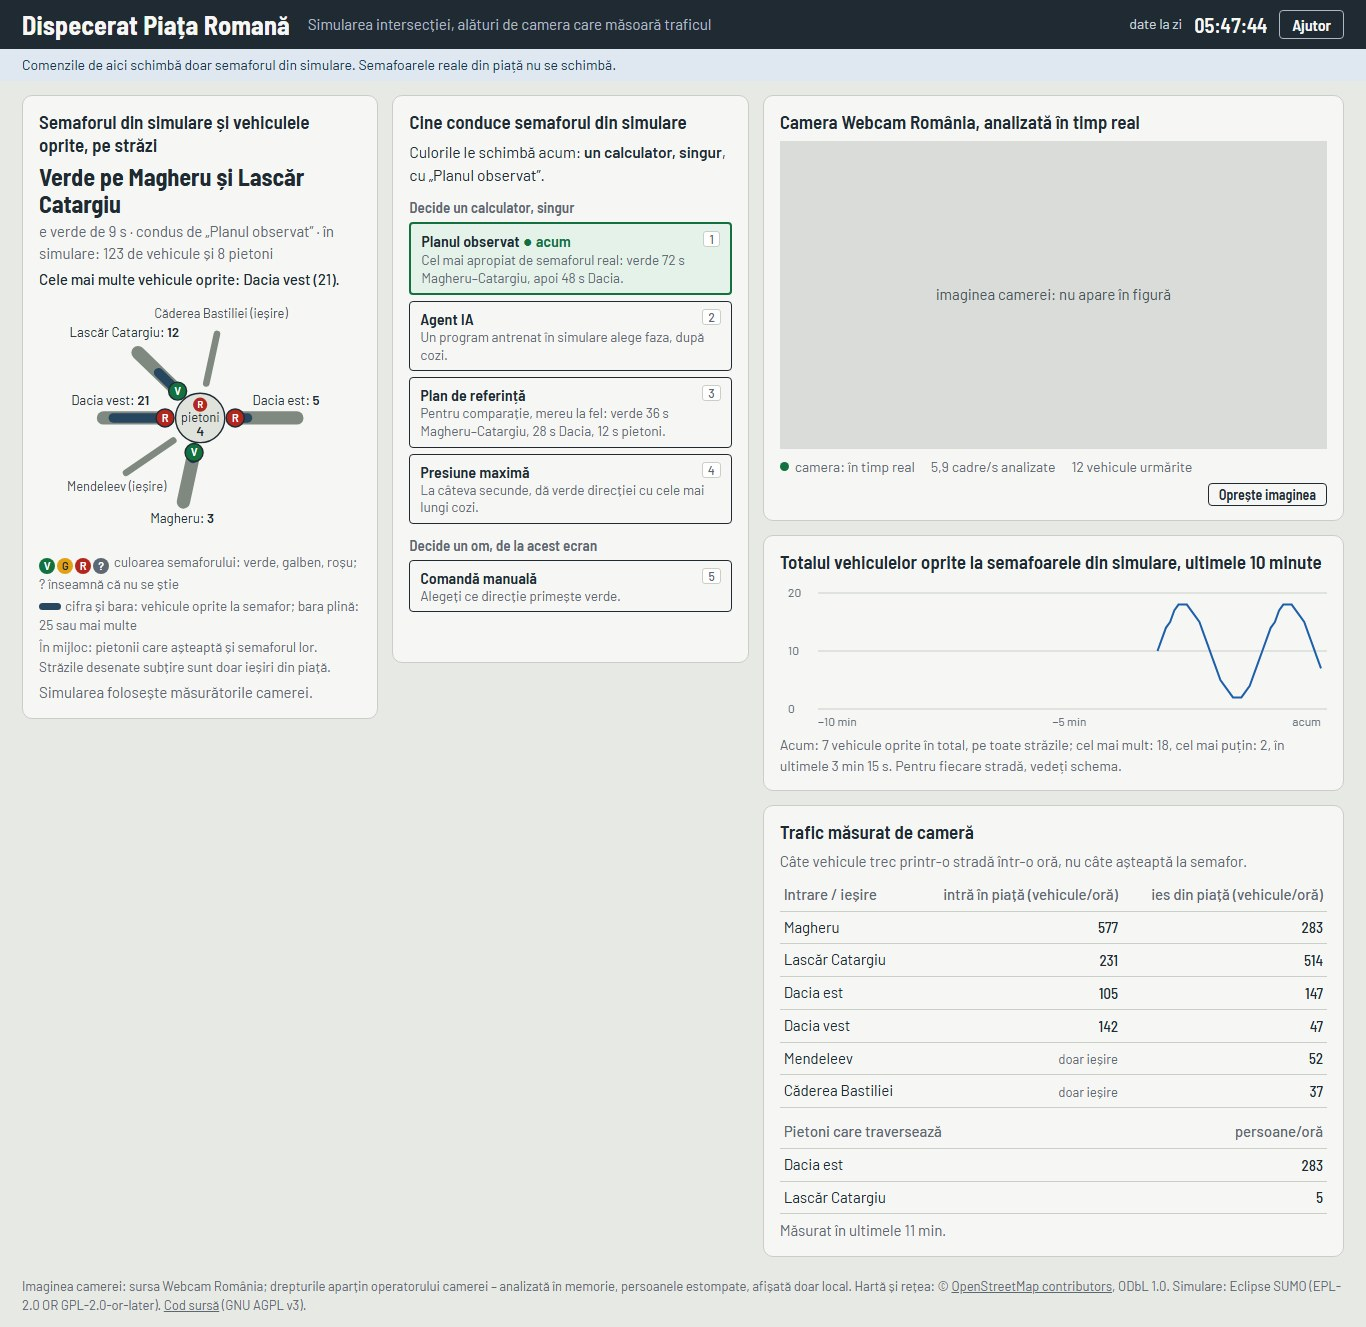
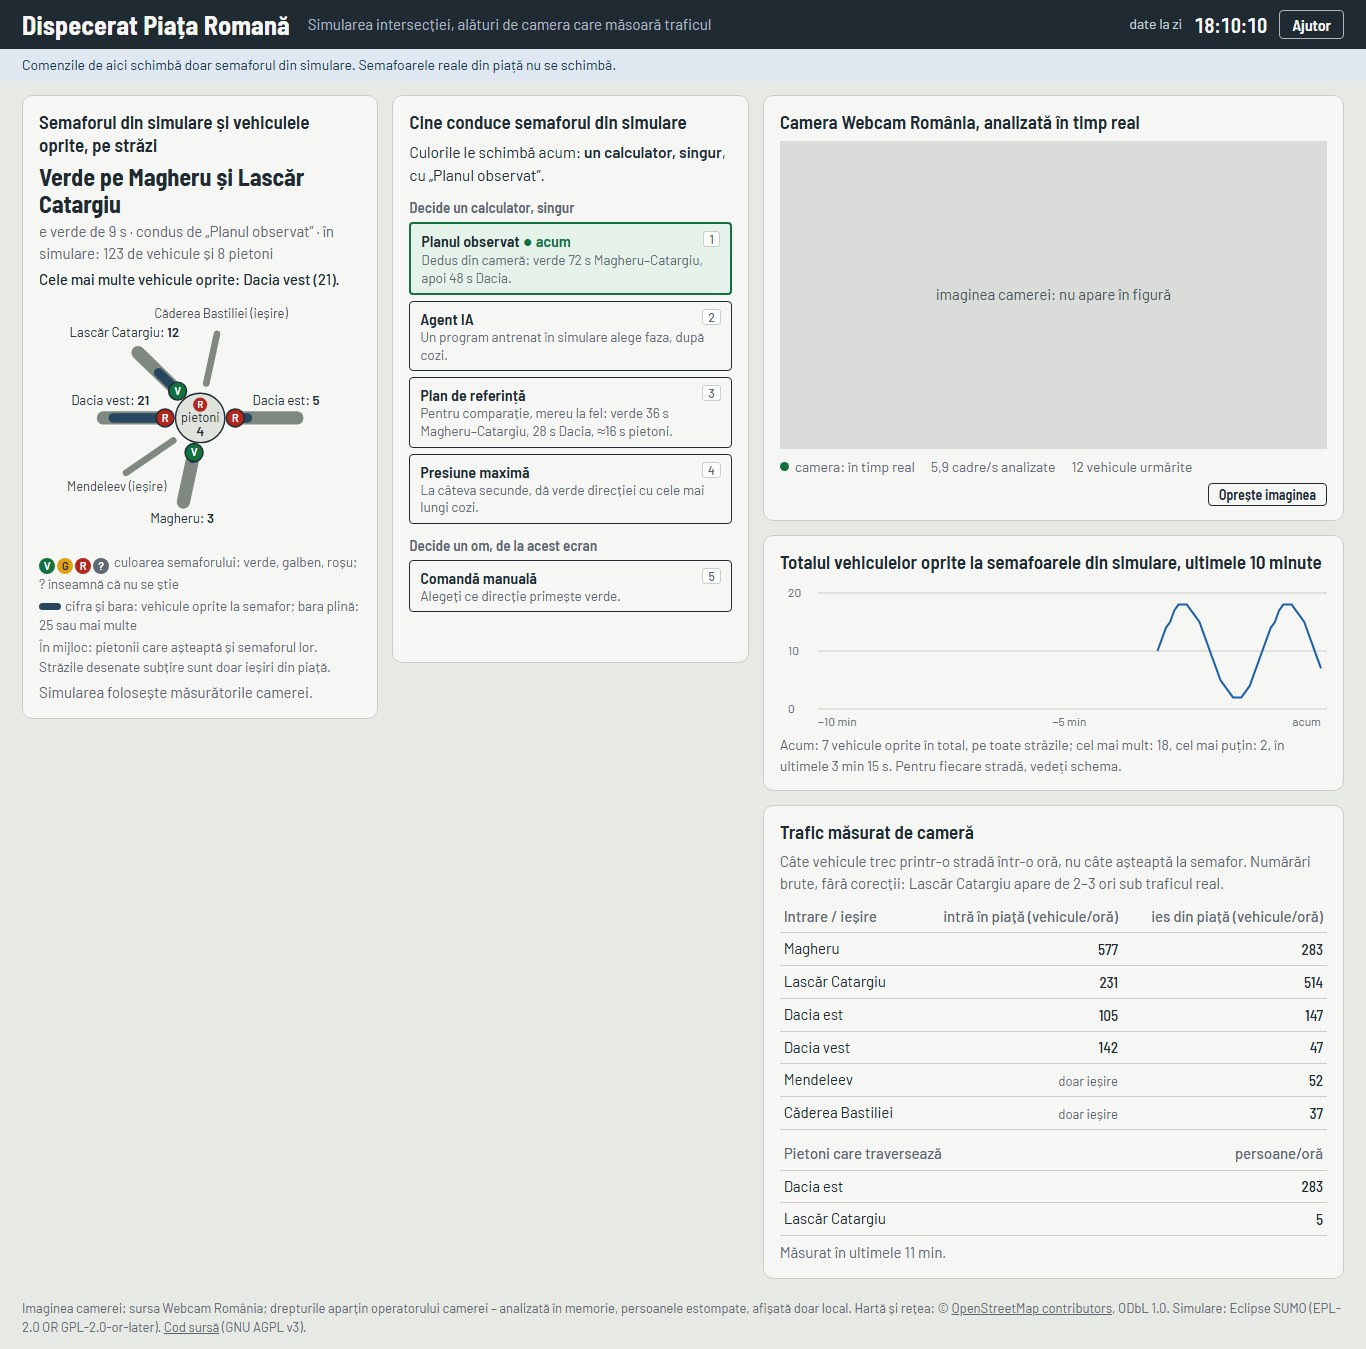
Borna M2: dispeceratul și sondarea nu mai spun „cel mai apropiat de semaforul real”
Planul observat apare ca un plan fix dedus din cameră, la vârful zilei de luni 26.10, iar panoul cu debite spune că numărările sunt brute, cu Lascăr Catargiu de 2–3 ori sub traficul real.

Sondarea: pietonii de pe Dacia pornesc la 28 s, ca în geamăn, iar subsolul spune cine și-a dat acordul pentru fotografie: Webcam România, nu operatorul camerei. Paginile din `docs/sondare` și figura 8.1 sunt refăcute.

Demonstrația de comparație pornește acum pe vârful din 26.10, fiindcă prânzul acelei zile a fost prelucrat încetinit și a ieșit din comparație. Comentarii aduse la zi: 28 s în `faze.py` și în `config/retea_v2.json`, 72/48/3 în `compara_camera`.

diff --git a/src/romana/dashboard/static/index.html b/src/romana/dashboard/static/index.html
@@ -147,7 +147,7 @@ footer a{color:inherit;text-decoration:underline}
       <p id="cine-acum"></p>
       <h3 id="t-auto">Decide un calculator, singur</h3>
       <div class="moduri" role="group" aria-labelledby="t-auto">
-        <button data-mod="program"><kbd>1</kbd><b>Planul observat</b><span id="d-program">Cel mai apropiat de semaforul real, măsurat din cameră.</span></button>
+        <button data-mod="program"><kbd>1</kbd><b>Planul observat</b><span id="d-program">Plan fix dedus din cameră, la vârful zilei de luni 26.10.</span></button>
         <button data-mod="ai"><kbd>2</kbd><b>Agent IA</b><span id="d-ai">Un program antrenat în simulare alege faza, după cozi.</span></button>
         <button data-mod="fix"><kbd>3</kbd><b>Plan de referință</b><span>Pentru comparație, mereu la fel: verde 36 s Magheru–Catargiu, 28 s Dacia, ≈16 s pietoni.</span></button>
         <button data-mod="max_pressure"><kbd>4</kbd><b>Presiune maximă</b><span>La câteva secunde, dă verde direcției cu cele mai lungi cozi.</span></button>
@@ -192,7 +192,7 @@ footer a{color:inherit;text-decoration:underline}
     </section>
     <section aria-labelledby="t-deb" id="p-deb">
       <h2 id="t-deb">Trafic măsurat de cameră</h2>
-      <p class="sub" style="margin:0 0 6px">Câte vehicule trec printr-o stradă într-o oră, nu câte așteaptă la semafor.</p>
+      <p class="sub" style="margin:0 0 6px">Câte vehicule trec printr-o stradă într-o oră, nu câte așteaptă la semafor. Numărări brute, fără corecții: Lascăr Catargiu apare de 2–3 ori sub traficul real.</p>
       <table><thead><tr><th>Intrare / ieșire</th><th class="n">intră în piață (vehicule/oră)</th><th class="n">ies din piață (vehicule/oră)</th></tr></thead><tbody id="debite"><tr><td colspan="3" class="sub">Așteptăm primele măsurători.</td></tr></tbody></table>
       <table id="t-pietoni" hidden style="margin-top:8px"><thead><tr><th>Pietoni care traversează</th><th class="n">persoane/oră</th></tr></thead><tbody id="pietoni"></tbody></table>
       <p class="sub" id="deb-nota" style="margin:6px 0 0"></p>
@@ -202,8 +202,8 @@ footer a{color:inherit;text-decoration:underline}
 <footer>Imaginea camerei: sursa Webcam România; drepturile aparțin operatorului camerei – analizată în memorie, persoanele estompate, afișată doar local. Hartă și rețea: © <a href="https://www.openstreetmap.org/copyright">OpenStreetMap contributors</a>, ODbL 1.0. Simulare: Eclipse SUMO (EPL-2.0 OR GPL-2.0-or-later). <a href="https://github.com/NiuninMatei/Semaforizare_Piata_Romana">Cod sursă</a> (GNU AGPL v3).</footer>
 <script>
 const NUME={magheru:"Magheru",catargiu:"Lascăr Catargiu",dacia_est:"Dacia est",dacia_vest:"Dacia vest",mendeleev:"Mendeleev",caderea_bastiliei:"Căderea Bastiliei"};
-const MODURI={program:{nume:"Planul observat",cine:"un calculator, singur",text:"planul cel mai apropiat de semaforul real, măsurat din cameră"},ai:{nume:"Agent IA",cine:"un calculator, singur",text:"un program antrenat în simulare, care alege faza după cozi"},
-  fix:{nume:"Plan de referință",cine:"un calculator, singur",text:"pentru comparație, mereu la fel: verde 36 s Magheru–Catargiu, 28 s Dacia, 12 s pietoni"},max_pressure:{nume:"Presiune maximă",cine:"un calculator, singur",text:"verde pentru direcția cu cele mai lungi cozi"},
+const MODURI={program:{nume:"Planul observat",cine:"un calculator, singur",text:"un plan fix dedus din cameră, la vârful zilei de luni 26.10"},ai:{nume:"Agent IA",cine:"un calculator, singur",text:"un program antrenat în simulare, care alege faza după cozi"},
+  fix:{nume:"Plan de referință",cine:"un calculator, singur",text:"pentru comparație, mereu la fel: verde 36 s Magheru–Catargiu, 28 s Dacia, ≈16 s pietoni"},max_pressure:{nume:"Presiune maximă",cine:"un calculator, singur",text:"verde pentru direcția cu cele mai lungi cozi"},
   manual:{nume:"Comandă manuală",cine:"un om, de la acest ecran",text:"alegeți dumneavoastră direcția care primește verde"}};
 const ORDINE=["program","ai","fix","max_pressure","manual"];
 const SUBPROGRAM={plan_observat:"verde 72 s Magheru–Catargiu, apoi 48 s Dacia",plan_scurt:"verde 12 s Magheru–Catargiu, 14 s Dacia, 12 s pietoni",plan_mediu:"verde 16 s Magheru–Catargiu, 10 s Dacia, 12 s pietoni",plan_lung:"verde 46 s Magheru–Catargiu, 48 s Dacia, 12 s pietoni",
@@ -299,7 +299,7 @@ function butoane(s){
   document.querySelectorAll("[data-mod]").forEach(b=>{ b.setAttribute("aria-pressed",b.dataset.mod==mod); b.disabled=!!blocat||trimitem||(b.dataset.mod=="ai"&&!!s&&!s.model_ai) });
   $("revino").disabled=!!blocat||trimitem;
   $("d-ai").textContent=s&&!s.model_ai?"Indisponibil: pe acest calculator nu există un agent antrenat.":"Un program antrenat în simulare alege faza, după cozi."; $("d-ai").classList.toggle("motiv",!!s&&!s.model_ai);
-  $("d-program").textContent=s&&s.mod_program&&SUBPROGRAM[s.mod_program]?`Cel mai apropiat de semaforul real: ${SUBPROGRAM[s.mod_program]}.`:"Cel mai apropiat de semaforul real, măsurat din cameră.";
+  $("d-program").textContent=s&&s.mod_program&&SUBPROGRAM[s.mod_program]?`Dedus din cameră: ${SUBPROGRAM[s.mod_program]}.`:"Plan fix dedus din cameră, la vârful zilei de luni 26.10.";
   $("blocat").hidden=!blocat; $("blocat").textContent=blocat;
   $("manual").classList.toggle("vizibil",mod=="manual");
   faze(s);

diff --git a/docs/sondare/m2.html b/docs/sondare/m2.html
@@ -149,7 +149,7 @@ footer a{color:inherit;text-decoration:underline}
       <p id="cine-acum"></p>
       <h3 id="t-auto">Decide un calculator, singur</h3>
       <div class="moduri" role="group" aria-labelledby="t-auto">
-        <button data-mod="program"><kbd>1</kbd><b>Planul observat</b><span id="d-program">Cel mai apropiat de semaforul real, măsurat din cameră.</span></button>
+        <button data-mod="program"><kbd>1</kbd><b>Planul observat</b><span id="d-program">Plan fix dedus din cameră, la vârful zilei de luni 26.10.</span></button>
         <button data-mod="ai"><kbd>2</kbd><b>Agent IA</b><span id="d-ai">Un program antrenat în simulare alege faza, după cozi.</span></button>
         <button data-mod="fix"><kbd>3</kbd><b>Plan de referință</b><span>Pentru comparație, mereu la fel: verde 36 s Magheru–Catargiu, 28 s Dacia, ≈16 s pietoni.</span></button>
         <button data-mod="max_pressure"><kbd>4</kbd><b>Presiune maximă</b><span>La câteva secunde, dă verde direcției cu cele mai lungi cozi.</span></button>
@@ -195,14 +195,14 @@ footer a{color:inherit;text-decoration:underline}
     </section>
     <section aria-labelledby="t-deb" id="p-deb">
       <h2 id="t-deb">Debite de trafic</h2>
-      <p class="sub" style="margin:0 0 6px">Câte vehicule trec printr-o stradă într-o oră, nu câte așteaptă la semafor.</p>
+      <p class="sub" style="margin:0 0 6px">Câte vehicule trec printr-o stradă într-o oră, nu câte așteaptă la semafor. Numărări brute, fără corecții: Lascăr Catargiu apare de 2–3 ori sub traficul real.</p>
       <table><thead><tr><th>Intrare / ieșire</th><th class="n">intră în piață (vehicule/oră)</th><th class="n">ies din piață (vehicule/oră)</th></tr></thead><tbody id="debite"><tr><td colspan="3" class="sub">Așteptăm primele măsurători.</td></tr></tbody></table>
       <table id="t-pietoni" hidden style="margin-top:8px"><thead><tr><th>Pietoni care traversează</th><th class="n">persoane/oră</th></tr></thead><tbody id="pietoni"></tbody></table>
       <p class="sub" id="deb-nota" style="margin:6px 0 0"></p>
     </section>
   </div>
 </main>
-<footer>Imaginea camerei: Webcam România – https://webcamromania.ro; drepturile aparțin operatorului camerei. Fotografie publicată cu acordul lui, cu persoanele și plăcuțele estompate. Hartă și rețea: © <a href="https://www.openstreetmap.org/copyright">OpenStreetMap contributors</a>, ODbL 1.0. Simulare: Eclipse SUMO (EPL-2.0 OR GPL-2.0-or-later). <a href="https://github.com/NiuninMatei/Semaforizare_Piata_Romana">Cod sursă</a> (GNU AGPL v3).</footer>
+<footer>Imaginea camerei: Webcam România – https://webcamromania.ro; drepturile aparțin operatorului camerei. Fotografie publicată cu acordul scris al Webcam România, cu persoanele și plăcuțele estompate. Hartă și rețea: © <a href="https://www.openstreetmap.org/copyright">OpenStreetMap contributors</a>, ODbL 1.0. Simulare: Eclipse SUMO (EPL-2.0 OR GPL-2.0-or-later). <a href="https://github.com/NiuninMatei/Semaforizare_Piata_Romana">Cod sursă</a> (GNU AGPL v3).</footer>
 <script src="punte.js"></script>
 <script src="m2.js"></script>
 </body>

diff --git a/docs/sondare/m2.js b/docs/sondare/m2.js
@@ -1,6 +1,6 @@
 const NUME={magheru:"Magheru",catargiu:"Lascăr Catargiu",dacia_est:"Dacia est",dacia_vest:"Dacia vest",mendeleev:"Mendeleev",caderea_bastiliei:"Căderea Bastiliei"};
-const MODURI={program:{nume:"Planul observat",cine:"un calculator, singur",text:"planul cel mai apropiat de semaforul real, măsurat din cameră"},ai:{nume:"Agent IA",cine:"un calculator, singur",text:"un program antrenat în simulare, care alege faza după cozi"},
-  fix:{nume:"Plan de referință",cine:"un calculator, singur",text:"pentru comparație, mereu la fel: verde 36 s Magheru–Catargiu, 28 s Dacia, 12 s pietoni"},max_pressure:{nume:"Presiune maximă",cine:"un calculator, singur",text:"verde pentru direcția cu cele mai lungi cozi"},
+const MODURI={program:{nume:"Planul observat",cine:"un calculator, singur",text:"un plan fix dedus din cameră, la vârful zilei de luni 26.10"},ai:{nume:"Agent IA",cine:"un calculator, singur",text:"un program antrenat în simulare, care alege faza după cozi"},
+  fix:{nume:"Plan de referință",cine:"un calculator, singur",text:"pentru comparație, mereu la fel: verde 36 s Magheru–Catargiu, 28 s Dacia, ≈16 s pietoni"},max_pressure:{nume:"Presiune maximă",cine:"un calculator, singur",text:"verde pentru direcția cu cele mai lungi cozi"},
   manual:{nume:"Comandă manuală",cine:"un om, de la acest ecran",text:"alegeți dumneavoastră direcția care primește verde"}};
 const ORDINE=["program","ai","fix","max_pressure","manual"];
 const SUBPROGRAM={plan_observat:"verde 72 s Magheru–Catargiu, apoi 48 s Dacia",plan_scurt:"verde 12 s Magheru–Catargiu, 14 s Dacia, 12 s pietoni",plan_mediu:"verde 16 s Magheru–Catargiu, 10 s Dacia, 12 s pietoni",plan_lung:"verde 46 s Magheru–Catargiu, 48 s Dacia, 12 s pietoni",
@@ -96,7 +96,7 @@ function butoane(s){
   document.querySelectorAll("[data-mod]").forEach(b=>{ b.setAttribute("aria-pressed",b.dataset.mod==mod); b.disabled=!!blocat||trimitem||(b.dataset.mod=="ai"&&!!s&&!s.model_ai) });
   $("revino").disabled=!!blocat||trimitem;
   $("d-ai").textContent=s&&!s.model_ai?"Indisponibil: pe acest calculator nu există un agent antrenat.":"Un program antrenat în simulare alege faza, după cozi."; $("d-ai").classList.toggle("motiv",!!s&&!s.model_ai);
-  $("d-program").textContent=s&&s.mod_program&&SUBPROGRAM[s.mod_program]?`Cel mai apropiat de semaforul real: ${SUBPROGRAM[s.mod_program]}.`:"Cel mai apropiat de semaforul real, măsurat din cameră.";
+  $("d-program").textContent=s&&s.mod_program&&SUBPROGRAM[s.mod_program]?`Dedus din cameră: ${SUBPROGRAM[s.mod_program]}.`:"Plan fix dedus din cameră, la vârful zilei de luni 26.10.";
   $("blocat").hidden=!blocat; $("blocat").textContent=blocat;
   $("manual").classList.toggle("vizibil",mod=="manual");
   faze(s);

diff --git a/docs/sondare/m1.html b/docs/sondare/m1.html
@@ -113,7 +113,7 @@ footer a{color:inherit;text-decoration:underline}
     </section>
   </div>
 </main>
-<footer>Imaginea camerei: Webcam România – https://webcamromania.ro; drepturile aparțin operatorului camerei. Fotografie publicată cu acordul lui, cu persoanele și plăcuțele estompate. Hartă și rețea: © <a href="https://www.openstreetmap.org/copyright">OpenStreetMap contributors</a>, ODbL 1.0. Simulare: Eclipse SUMO (EPL-2.0 OR GPL-2.0-or-later). <a href="https://github.com/NiuninMatei/Semaforizare_Piata_Romana">Cod sursă</a> (GNU AGPL v3).</footer>
+<footer>Imaginea camerei: Webcam România – https://webcamromania.ro; drepturile aparțin operatorului camerei. Fotografie publicată cu acordul scris al Webcam România, cu persoanele și plăcuțele estompate. Hartă și rețea: © <a href="https://www.openstreetmap.org/copyright">OpenStreetMap contributors</a>, ODbL 1.0. Simulare: Eclipse SUMO (EPL-2.0 OR GPL-2.0-or-later). <a href="https://github.com/NiuninMatei/Semaforizare_Piata_Romana">Cod sursă</a> (GNU AGPL v3).</footer>
 <script src="punte.js"></script>
 <script src="m1.js"></script>
 </body>

diff --git a/docs/sondare/logica.js b/docs/sondare/logica.js
@@ -9,7 +9,7 @@ const rotunjit = x => Math.round(x * 100) / 100;
 // Aceleași câmpuri ca outputs/live/state.json și sim_state.json. Reacția la o comandă e ca în geamăn: faza veche rămâne
 // până la pasul de citire a comenzii (5 s), pietonii au 6 s să termine traversarea, apoi galben 3 s și roșu 2 s, iar faza nouă
 // vine abia după ele. Fiindcă planul stă pe faza N–S cu verdele minim deja atins la sarcina de verde, aici reacția durează
-// 11–16 s; în geamănul adevărat poate ajunge la ≈30 s (§ 8).
+// 11–16 s; în geamănul adevărat poate ajunge la ≈45 s (§ 8).
 class Banc {
   constructor(D, ceas = secunde, salvat = null) {
     this.D = D;

diff --git a/src/romana/dashboard/static/sondare_logica.js b/src/romana/dashboard/static/sondare_logica.js
@@ -9,7 +9,7 @@ const rotunjit = x => Math.round(x * 100) / 100;
 // Aceleași câmpuri ca outputs/live/state.json și sim_state.json. Reacția la o comandă e ca în geamăn: faza veche rămâne
 // până la pasul de citire a comenzii (5 s), pietonii au 6 s să termine traversarea, apoi galben 3 s și roșu 2 s, iar faza nouă
 // vine abia după ele. Fiindcă planul stă pe faza N–S cu verdele minim deja atins la sarcina de verde, aici reacția durează
-// 11–16 s; în geamănul adevărat poate ajunge la ≈30 s (§ 8).
+// 11–16 s; în geamănul adevărat poate ajunge la ≈45 s (§ 8).
 class Banc {
   constructor(D, ceas = secunde, salvat = null) {
     this.D = D;

diff --git a/docs/sondare/date.js b/docs/sondare/date.js
@@ -26,7 +26,7 @@ const DATE_SONDARE = {
 "GALBEN": 3,
 "ROSU": 2,
 "VERDE_MIN": 10,
-"INTARZIERE_PIETONI": 24,
+"INTARZIERE_PIETONI": 28,
 "DEGAJARE_PIETONI": 6,
 "PAS_COMANDA": 5,
 "VERDE_PE_DACIA": [

diff --git a/src/romana/dashboard/sondare.py b/src/romana/dashboard/sondare.py
@@ -56,7 +56,7 @@ FAZE = ["N–S: Magheru ↔ Lascăr Catargiu prin centru", "E–V: Dacia în jur
         "E–V, cu intrările Magheru/Catargiu deschise (fără dozare)", "Golirea centrului, fără pietoni"]
 PLAN = [(0, 72), (1, 48), (5, 3)]               # planul observat din geamăn (§ 6.5): verde 72/48/3 s, apoi galben 3 s și roșu 2 s
 GALBEN, ROSU, VERDE_MIN, PAS_COMANDA = 3, 2, 10, 5    # ca în SignalController și în bucla geamănului (comanda se citește la 5 s)
-INTARZIERE_PIETONI, DEGAJARE_PIETONI = 24, 6     # ca în SemaforCuPietoni: pietonii pornesc după vehicule și termină traversarea înaintea galbenului
+INTARZIERE_PIETONI, DEGAJARE_PIETONI = 28, 6     # ca în SemaforCuPietoni: pietonii pornesc după vehicule și termină traversarea înaintea galbenului
 VERDE_PE_DACIA = (1, 3, 4)                      # schema arată verde pe Dacia în aceste faze
 VERDE_PE_MAGHERU = (0, 3, 4)
 AUTOMATE = ("ai", "fix", "max_pressure", "program")
@@ -212,7 +212,7 @@ STIL_CAMERA = "<style>.cam .stare,#sursa{display:none}</style>"
 SUBSOL_CAMERA = ("Imaginea camerei: sursa Webcam România; drepturile aparțin operatorului camerei – analizată în memorie, "
                  "persoanele estompate, afișată doar local.")
 SUBSOL_PUBLIC = ("Imaginea camerei: Webcam România – https://webcamromania.ro; drepturile aparțin operatorului camerei. "
-                 "Fotografie publicată cu acordul lui, cu persoanele și plăcuțele estompate.")
+                 "Fotografie publicată cu acordul scris al Webcam România, cu persoanele și plăcuțele estompate.")
 
 
 def _inlocuieste(text: str, vechi: str, nou: str) -> str:

diff --git a/src/romana/control/faze.py b/src/romana/control/faze.py
@@ -1,6 +1,6 @@
 """Fazele semaforului pieței pentru rețeaua încărcată în simulare: geamănul corectat are fișierul lui și programul pietonilor (§ 6.5).
 
-Programul pietonilor vine din cameră. Pe Dacia est, pietonii pornesc la ≈20 s după vehiculele de pe axa Magheru–Catargiu; pe Magheru, abia după sfârșitul
+Programul pietonilor vine din cameră. Pe Dacia est, pietonii pornesc la ≈28 s de la începutul valului de pe axa Magheru–Catargiu, iar la valurile foarte lungi mai târziu; pe Magheru, abia după sfârșitul
 etapei N–S. În ambele etape, pietonii primesc roșu cu câteva secunde înaintea vehiculelor, ca să termine traversarea până vine etapa următoare.
 """
 from __future__ import annotations

diff --git a/src/romana/control/compara_camera.py b/src/romana/control/compara_camera.py
@@ -5,7 +5,7 @@ numără, secundă cu secundă, vehiculele care părăsesc muchia dinaintea sema
 aceeași oră, iar cele două cicluri se aliniază pe cea mai bună suprapunere.
 
 Exemplu:
-  python -m romana.control.compara_camera --zi 2026-10-26 --interval 15:00-16:00 --scenariu cor_zi_2026-10-26_varf --plan PLAN_71_40_12 \
+  python -m romana.control.compara_camera --zi 2026-10-26 --interval 15:00-16:00 --scenariu cor_zi_2026-10-26_varf --plan PLAN_72_48_3 \
       --out docs/rezultate/geaman_camera_2026-10-26.csv --figura docs/imagini/geaman_camera.png
 """
 from __future__ import annotations

diff --git a/src/romana/control/demo.py b/src/romana/control/demo.py
@@ -57,7 +57,7 @@ def _run(args):
 
 def main(argv=None) -> None:
     ap = argparse.ArgumentParser(description=__doc__, formatter_class=argparse.RawDescriptionHelpFormatter)
-    ap.add_argument("--scenariu", default=str(ROOT / "sumo" / "scenarios" / "cor_zi_2026-10-26_pranz.sumocfg"))
+    ap.add_argument("--scenariu", default=str(ROOT / "sumo" / "scenarios" / "cor_zi_2026-10-26_varf.sumocfg"))
     ap.add_argument("--seeds", type=int, default=5)
     ap.add_argument("--model", default=str(MODELS_DIR / "ppo_romana_cal.zip"))
     args = ap.parse_args(argv)

diff --git a/README.md b/README.md
@@ -269,7 +269,7 @@ scripts\0_instalare.bat
 | Ce doriți să faceți | Comanda |
 |---|---|
 | Refacerea mediului pe Python 3.12, doar dacă `pip` a afișat erori. Scriptul scrie „Instalare terminata.” chiar și atunci. Erorile apar de regulă pe Python 3.14+, pe care îl poate alege `0_instalare.bat`: scriptul creează `.venv` cu `py -3`, adică cu cel mai nou Python 3 al lansatorului, sau cu `python` din PATH | `py -3.12 -m venv --clear .venv`, apoi `.venv\Scripts\python -m pip install -r requirements.txt` |
-| Demonstrația de comparație: prânzul din 26.10, cu planul de referință, planul observat, Presiune maximă și agentul IA, pe seed-urile 1–5. Durează câteva minute și scrie doar în `outputs/demo` | `scripts\9_demo_comparatie.bat` |
+| O demonstrație în geamăn: vârful din 26.10, cu planul de referință, planul observat, Presiune maximă și agentul IA, pe seed-urile 1–5. Arată cum se compară strategiile, nu care e mai bună: pe o singură oră și pe câteva seed-uri, diferențele dintre planurile apropiate nu spun nimic. Durează câteva minute și scrie doar în `outputs/demo` | `scripts\9_demo_comparatie.bat` |
 | Agentul E3 la vârful din 22.10, cu participanți indisciplinați; în rezultatul demonstrației, E3 apare în coloana „Agent AI (PPO)”. Scenariul din versiunea curentă are cererea calibrată din 26.10 (≈2 560 veh/h, § 5.4) și, din 28.10, capacitatea calibrată (§ 6.4), deci nu mai reproduce § 9.8. Acolo, cu tipurile de vehicule vechi, E3 dă −16,1% față de planul fix pe seed-urile 1–5; ca raport al mediilor, cum îl afișează demonstrația, diferența este de ≈ −20%. Tipurile vechi se aduc cu `git checkout 75592d3 -- sumo/demand/vtypes.add.xml sumo/demand/vtypes_indisciplinat.add.xml`, iar revenirea se face cu `git checkout HEAD -- sumo/demand`. Cifra din § 9.4, −28,0% pe 10 seed-uri, e la marginea de jos; pe seed-urile 1–5, ca raport al mediilor, ea este de ≈ −27%. Se reproduce după `git checkout e1d0f77 -- sumo/scenarios sumo/demand config/demand.json`, iar revenirea se face cu `git checkout HEAD -- sumo config/demand.json` | `scripts\9_demo_comparatie.bat --scenariu sumo\scenarios\indisciplinat_zi_2026-10-22_varf.sumocfg --model models\ppo_romana_zn3.zip` |
 | Simularea vizuală în SUMO-GUI, interfața grafică a simulatorului: vârful din 21.10 cu agentul oficial, apoi cu planul fix | `scripts\8_simulare_gui.bat`, apoi `scripts\8_simulare_gui.bat sumo\scenarios\zi_2026-10-21_varf.sumocfg --strategie fix_referinta` |
 | Cele peste 460 de teste automate. Ele verifică numărarea, statisticile pe perechi, validarea, scenariile cu participanți indisciplinați, numărătoarea de referință, calibrarea camerei, depistarea prelucrării încetinite în `calitate`, veghea fluxului de cadre, verdele pe treceri și ferestrele din `scenarii_zi` | `set PYTHONPATH=src`, apoi `.venv\Scripts\python -m unittest discover tests`; în PowerShell, prima comandă devine `$env:PYTHONPATH="src"` |
